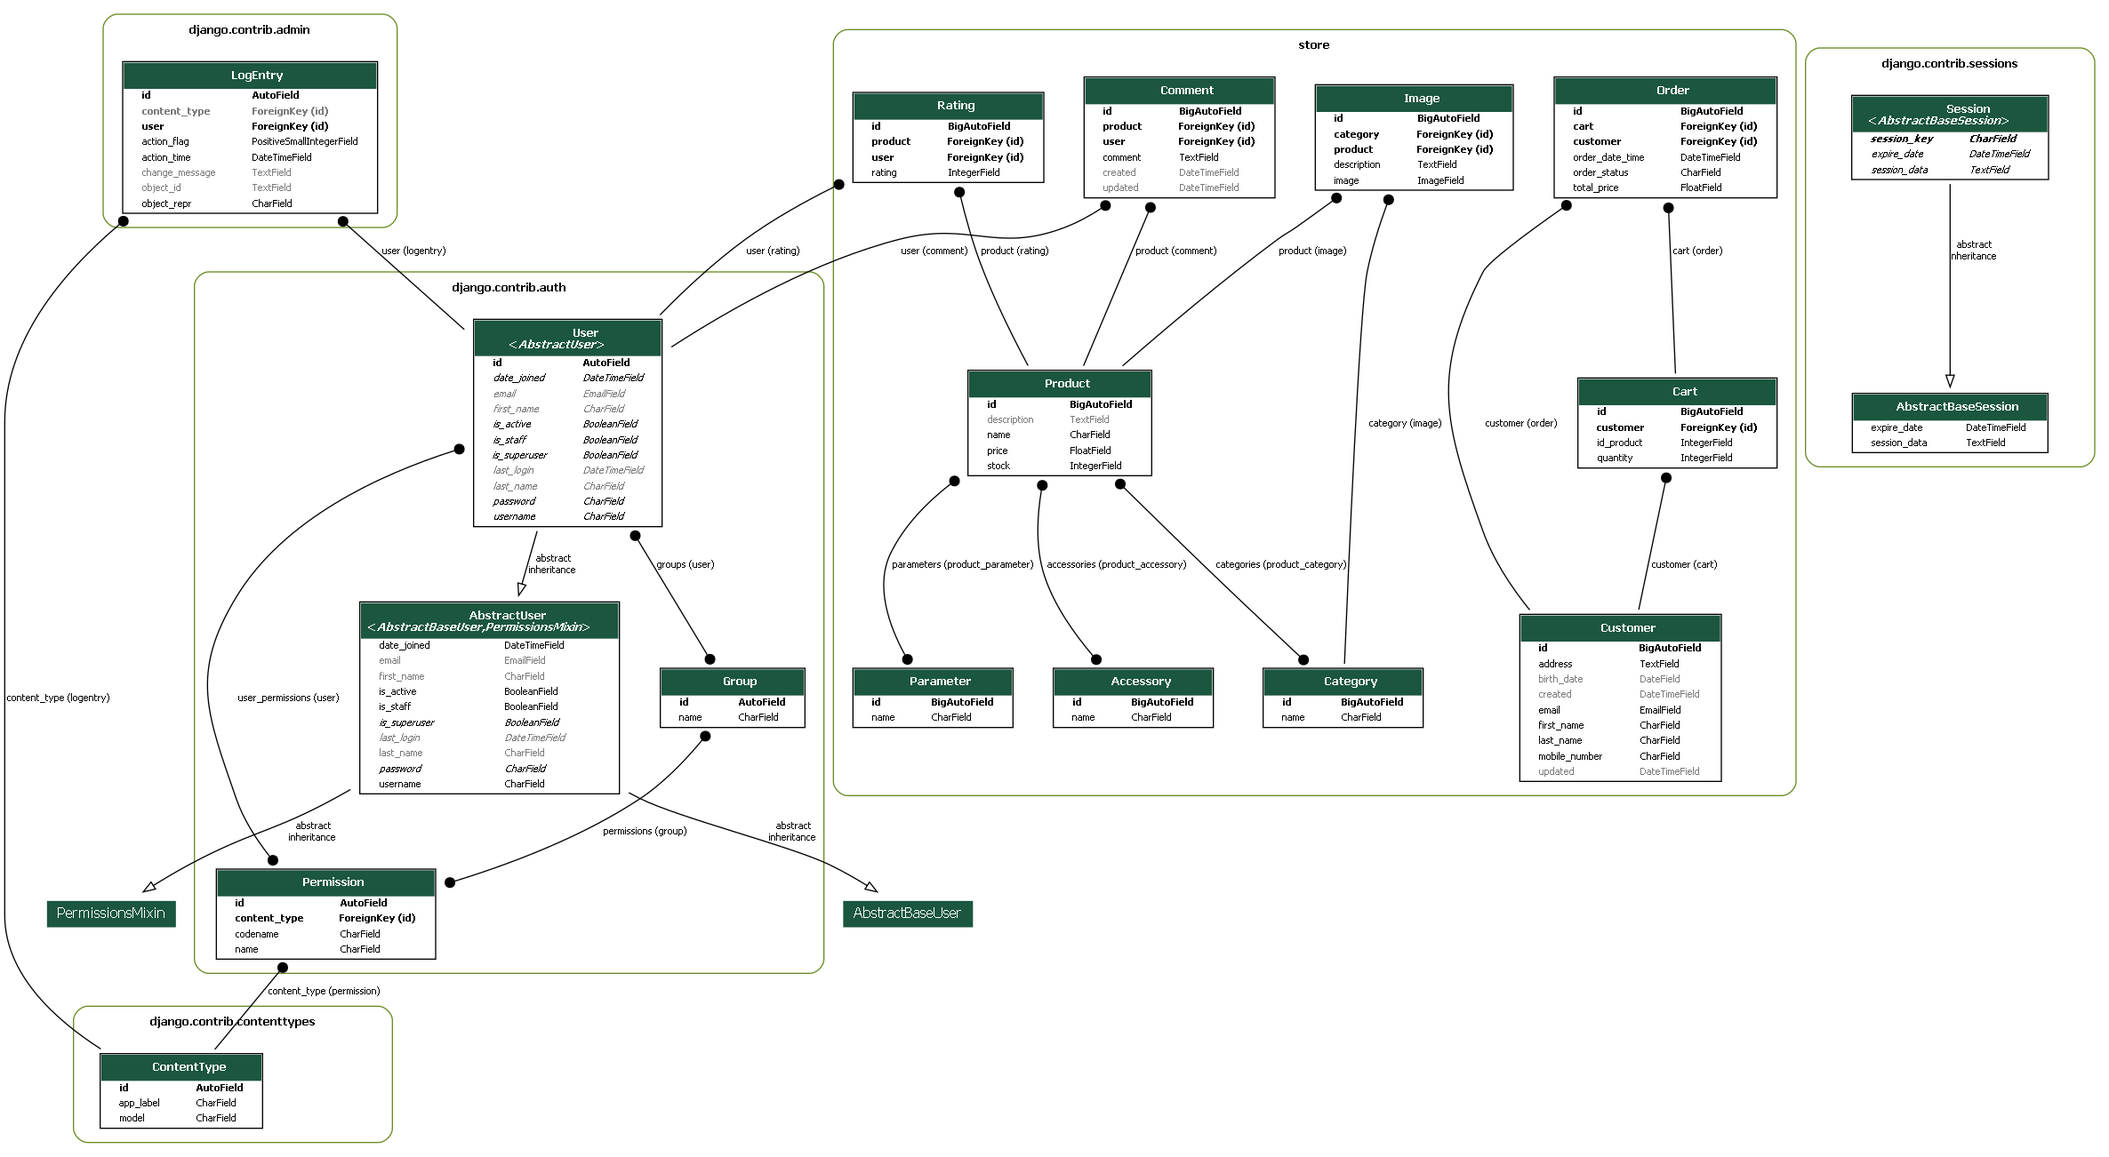
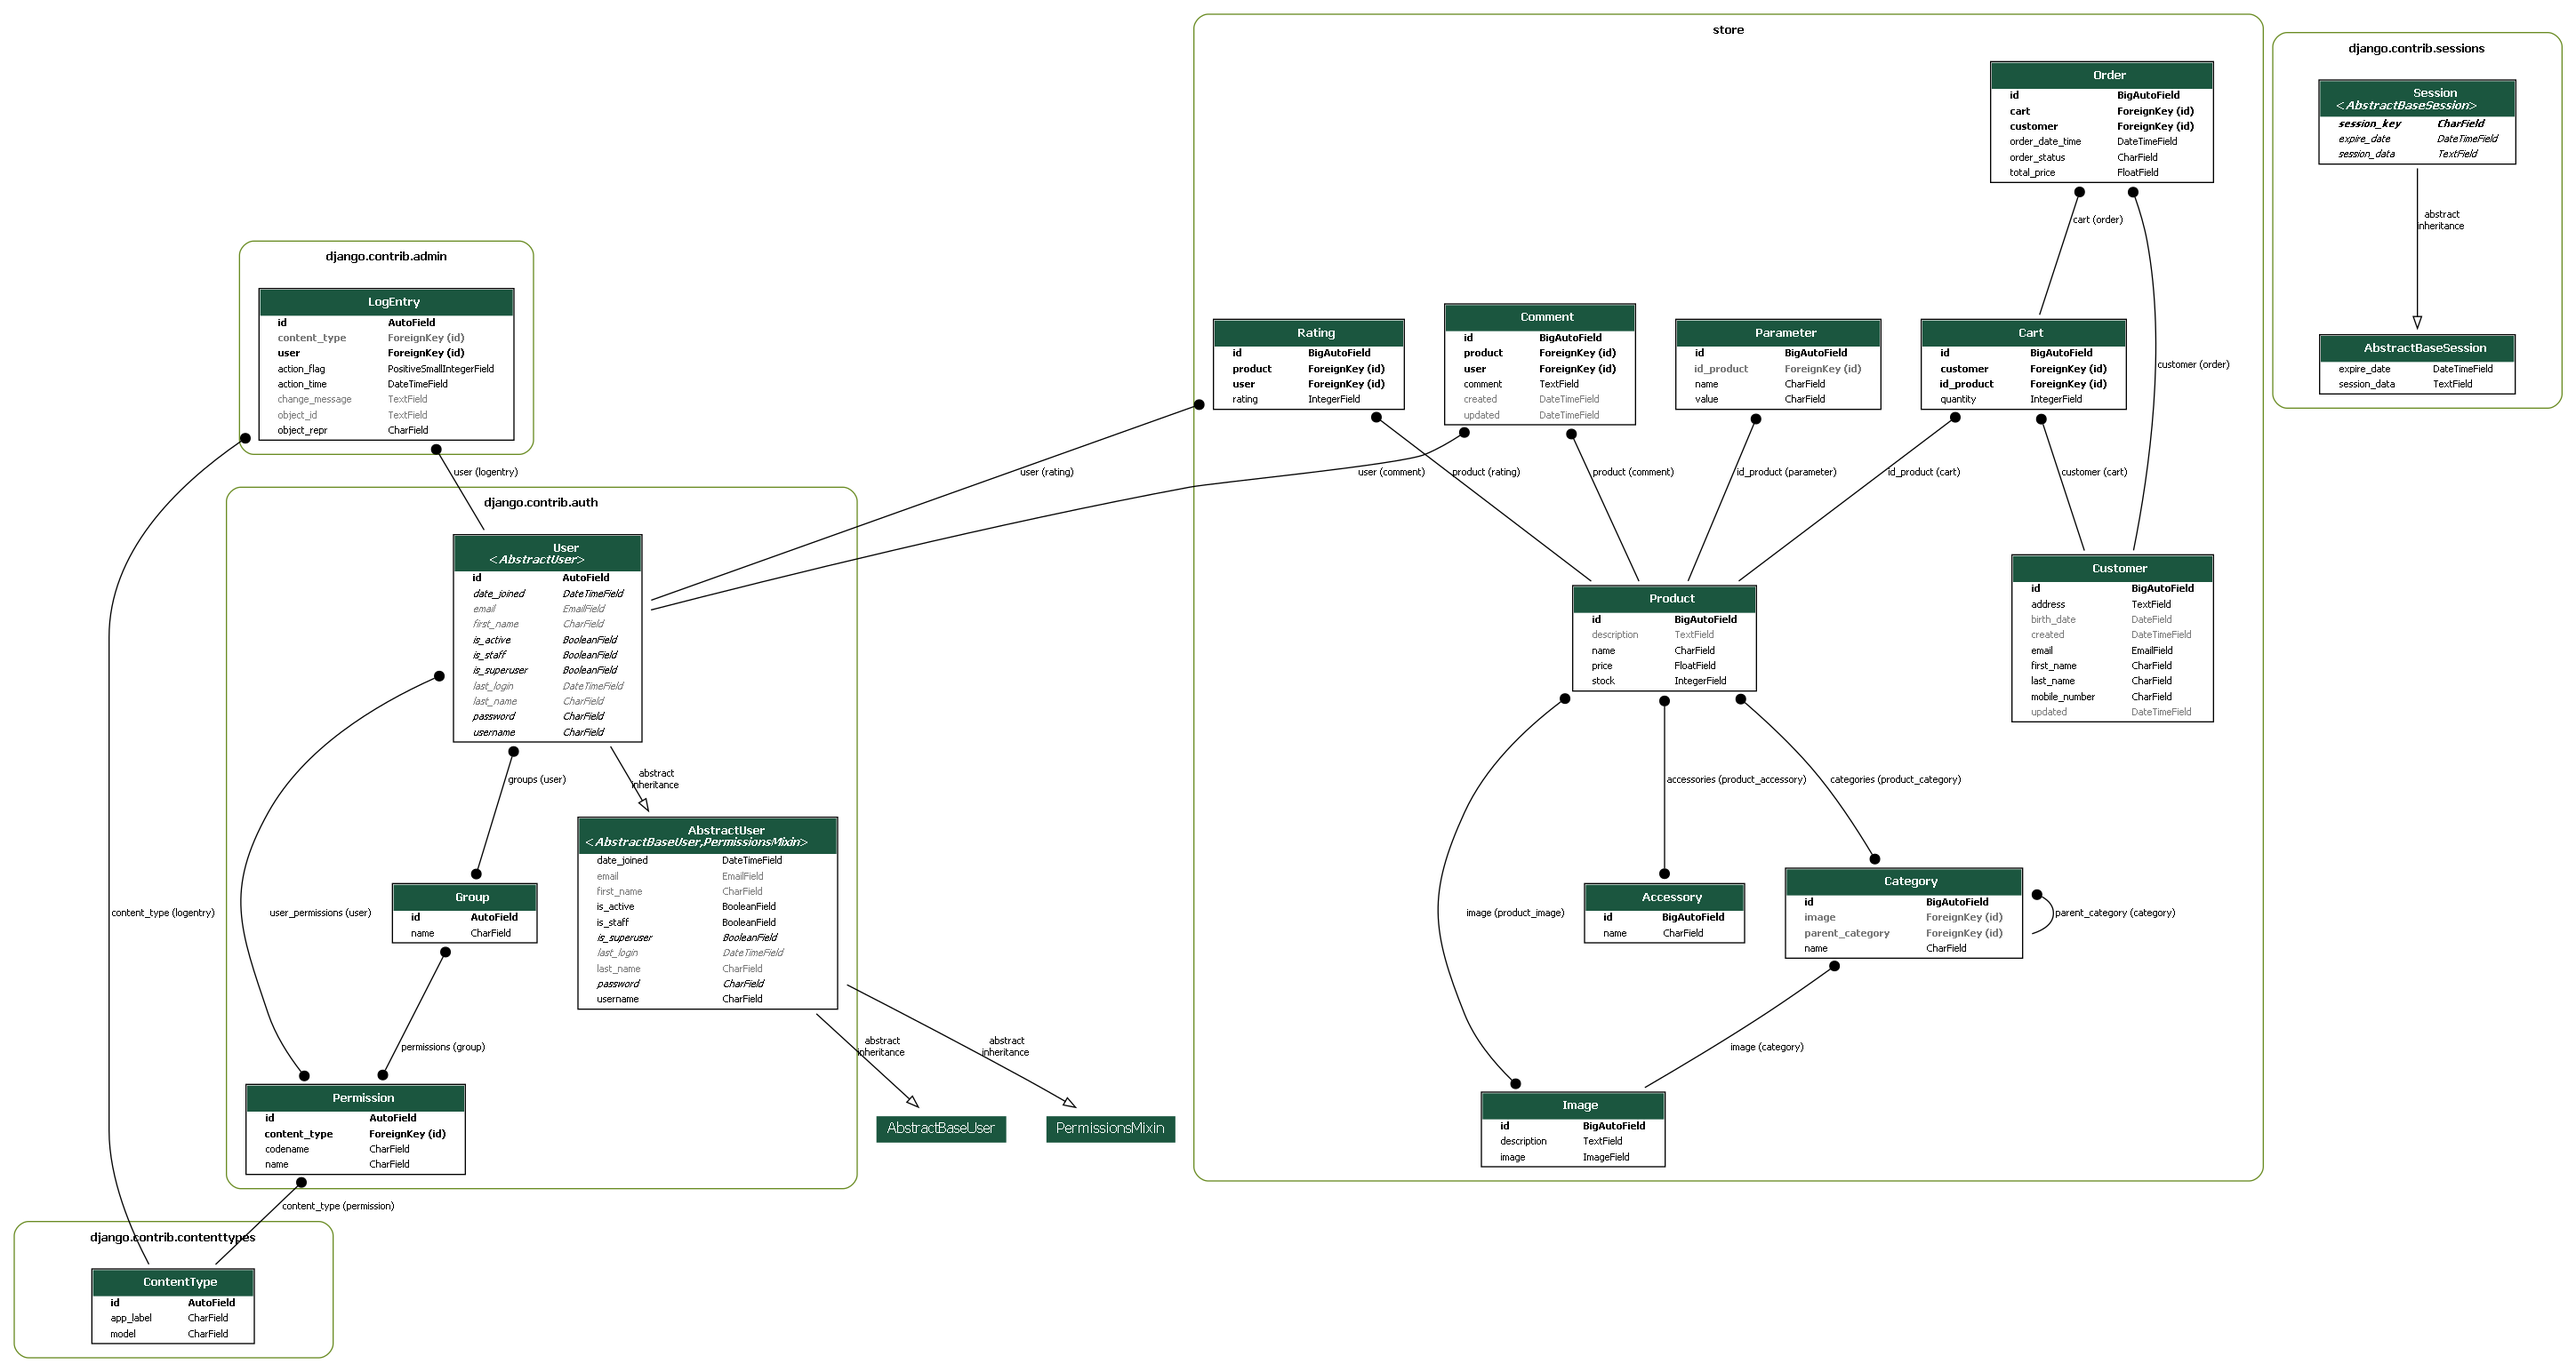
categories,images,index.html, views

diff --git a/templates/base.html b/templates/base.html
@@ -3,22 +3,28 @@
 <!DOCTYPE html>
 <html lang="sk">
 <head>
-    <meta charset="UTF-8">
-    <meta name="viewport" content="width=device-width, initial-scale=1.0">
-    <link rel="stylesheet" href="{% static 'viewer/styless.css' %}">
+     <title>change picture</title>
+    <meta charset="utf-8">
+    <meta name="viewport" content="width=device-width, initial-scale=1">
+    <link rel="stylesheet" href="{% static 'store/styles.css' %}">
+    <script type="text/javascript" src="{% static 'store/script.js' %}"></script>
 </head>
-<body>
-    <img class="image1" alt="MRF" src="{% static 'store/images/MRF.pnd">
-    <header>
-
+<body onload = "startTimer()">
+    <header class="headContainer">
+        <button class="menu"><img class="img-menu" alt="Menu" src="{% static 'store/images/menu.jpg' %}">Menu</button>
+        <a href="{% url 'index' %}" class="headContainer-center"><h1>Vitajte na našej stránke</h1></a>
+        <div class="search-container">
+            <input type="text" class="search-input" id="searchInput" placeholder="Vyhľadávanie">
+            <span class="search-icon" onclick="performSearch()">🔍</span>
+        </div>
+        <img class="img" alt="MainImage" src="{% static 'store/images/MainImage.jpg' %}">
+        <nav class="navContainer1">
+            <button class="login"><img class="img-login" alt="LogIn" src="{% static 'store/images/login.jpg' %}">Log In</button>
+        </nav>
+        <nav class="navContainer1">
+            <button class="cart"><img class="img-cart" alt="Cart" src="{% static 'store/images/cart.png' %}">Košík</button>
+        </nav>
     </header>
-    <nav class="Container1">
-        <button>Menu</button>
-        <button>Predajne</button>
-        <button>Prihlásenie</button>
-        <button>Košík</button>
-    </nav>
-    <script src="{% static 'viewer/script.js' %}"></script>
     <main>
         {% block content %}{% endblock %}
     </main>

diff --git a/store/templates/index.html b/store/templates/index.html
@@ -1,5 +1,22 @@
 {% extends "base.html" %}
 
 {% block content %}
-<h2 align="center">Vitajne na stránke MRF elektro.</h2>
+{% for image in images %}
+  {{ image.image.url }}
+{% endfor %}
+
+<h2>ELEKTRO</h2>
+{% for category in categories %}
+  <a href="">{{ category }}</a>
+{% endfor %}
+
+<script>
+    startTimer();
+    setInterval(changeImage, 30000);
+</script>
+<div class="saleImage" id="imgContainer">
+    <img id="img" src="startpictures.webp">
+      <button class="previousButton" type="button" onclick="displayPreviousImage()"><</button>
+      <button class="nextButton" type="button" onclick="displayNextImage()">></button>
+</div>
 {% endblock %}

diff --git a/store/models.py b/store/models.py
@@ -5,23 +5,6 @@ from django.contrib.auth.models import User
 
 
 # Create your models here.
-class Category(Model):
-    name = CharField(max_length=64)
-
-    class Meta:
-        verbose_name_plural = "Categories"
-
-    def __str__(self):
-        return f"{self.name}"
-
-
-class Parameter(Model):
-    name = CharField(max_length=64)
-
-    def __str__(self):
-        return f"{self.name}"
-
-
 class Accessory(Model):
     name = CharField(max_length=64)
 
@@ -35,11 +18,20 @@ class Accessory(Model):
 class Product(Model):
     name = CharField(max_length=32, null=False, blank=False)
     price = FloatField()
-    categories = ManyToManyField(Category, blank=True, related_name="product_category")
-    parameters = ManyToManyField(Parameter, blank=True, related_name="product_parameter")
+    categories = ManyToManyField("Category", blank=True, related_name="product_category")
     accessories = ManyToManyField(Accessory, blank=True, related_name="product_accessory")
     stock = IntegerField()
+    image = ManyToManyField("Image", null=True, blank=True, related_name="product_image")
     description = TextField(null=True, blank=True)
+
+    def __str__(self):
+        return f"{self.name}"
+
+
+class Parameter(Model):
+    name = CharField(max_length=64)
+    value = CharField(max_length=64)
+    id_product = ForeignKey(Product, on_delete=SET_NULL, null=True, blank=True)
 
     def __str__(self):
         return f"{self.name}"
@@ -63,7 +55,7 @@ class Customer(Model):
 
 
 class Cart(Model):
-    id_product = IntegerField()
+    id_product = ForeignKey(Product, on_delete=DO_NOTHING)
     customer = ForeignKey(Customer, on_delete=DO_NOTHING)
     quantity = IntegerField()
 
@@ -97,13 +89,23 @@ class Comment(Model):
 
 
 class Image(Model):
-    product = ForeignKey(Product, on_delete=DO_NOTHING, null=False, blank=False)
-    category = ForeignKey(Category, on_delete=DO_NOTHING, null=False, blank=False)
     # url = CharField(max_length=128, null=False, blank=False)
     image = ImageField(upload_to='images/', default=None, null=False,
                        blank=False)  # , height_field=None, width_field=None, max_length=500)
     description = TextField()
 
     def __str__(self):
-        return f"{self.product}: {self.description[:50]}"
+        return f"{self.description[:50]}"
+
+
+class Category(Model):
+    name = CharField(max_length=64)
+    parent_category = ForeignKey("Category", on_delete=SET_NULL, null=True, blank=True)
+    image = ForeignKey(Image, on_delete=SET_NULL, null=True, blank=True)
+
+    class Meta:
+        verbose_name_plural = "Categories"
+
+    def __str__(self):
+        return f"{self.name}"
 

diff --git a/store/views.py b/store/views.py
@@ -5,28 +5,34 @@ from store.models import *
 
 # Create your views here.
 def index(request):
-    return render(request, 'index.html')
+    accessories = Accessory.objects.all()
+    images = Image.objects.all()
+    categories = Category.objects.all()
+    context = {"accessories": accessories, "images": images, "categories": categories}
+    return render(request, 'index.html', context)
 
 
-def category(request):
-    category_list = Category.objects.all()
-    context = {'category': category_list}
-    return render(request, 'category.html', context)
+# def categories(request):
+#     categories_list = Category.objects.all()
+#     context = {'categories', categories_list}
+#     return render(request, 'categories.html', context)
 
-
-def parameter(request):
-    parameter_list = Parameter.objects.all()
-    context = {'parameter': parameter_list}
-    return render(request, 'parameter.html', context)
-
-
-def accessory(request):
-    accessory_list = Accessory.objects.all()
-    context = {'accessory': accessory_list}
-    return render(request, 'accessory', context)
-
-
-
-
-
+# def category(request):
+#     category_list = Category.objects.all()
+#     context = {'category': category_list}
+#     return render(request, 'category.html', context)
+#
+#
+# def parameter(request):
+#     parameter_list = Parameter.objects.all()
+#     context = {'parameter': parameter_list}
+#     return render(request, 'parameter.html', context)
+#
+#
+# def accessory(request):
+#     accessory_list = Accessory.objects.all()
+#     context = {'accessory': accessory_list}
+#     return render(request, 'accessory', context)
+#
+#
 

diff --git a/eshop/urls.py b/eshop/urls.py
@@ -36,5 +36,6 @@ urlpatterns = [
     path("admin/", admin.site.urls),
 
     path('', index, name='index'),
+    # path('categories/', categories, name='categories')
 ]
 
